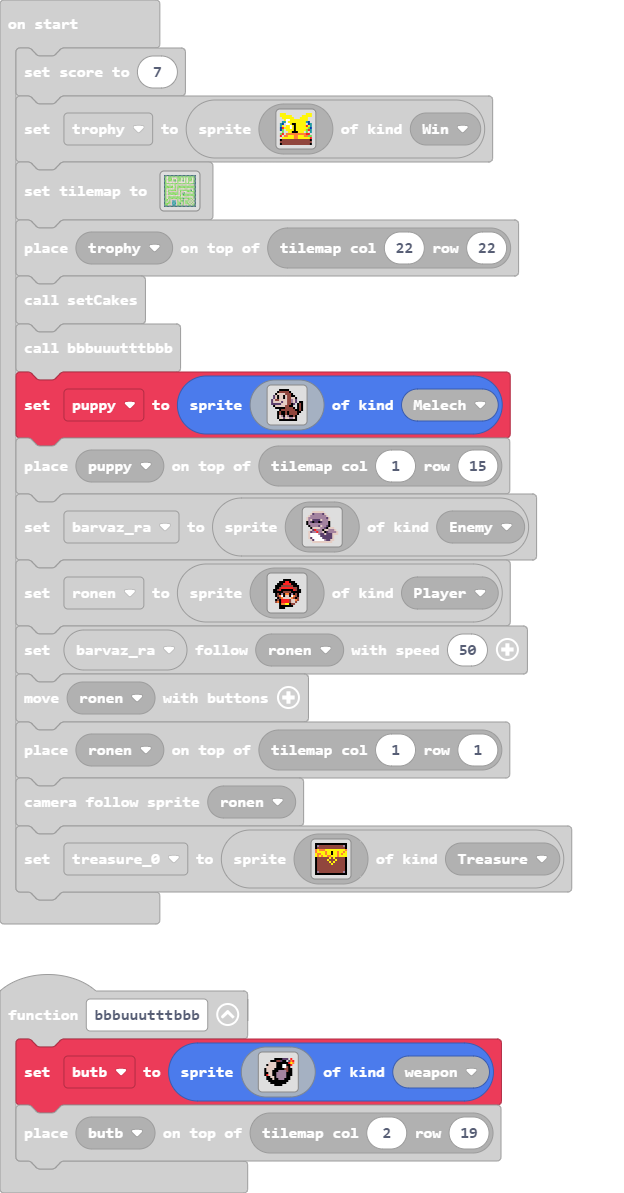
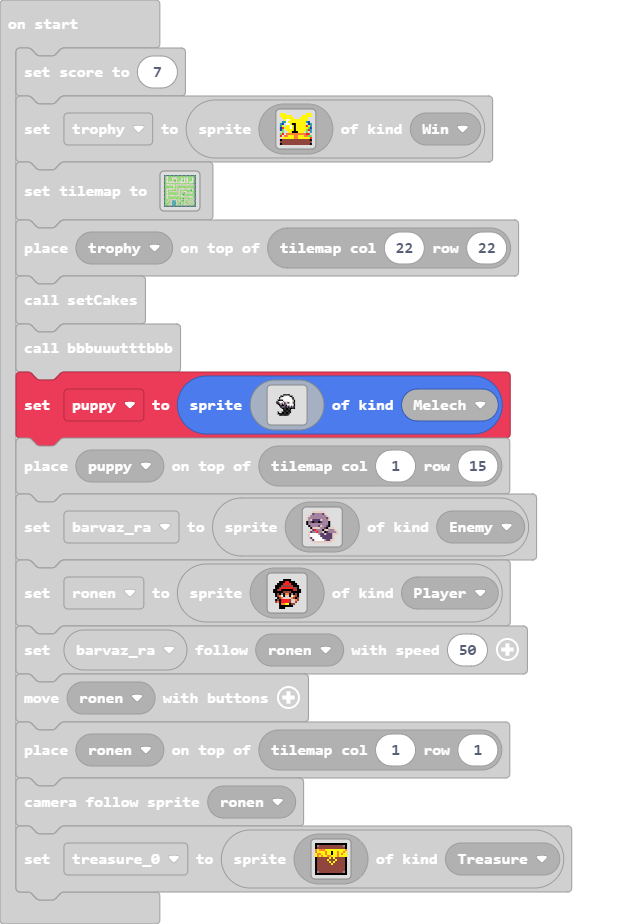
Update main.blocks, main.ts

diff --git a/main.ts b/main.ts
@@ -154,22 +154,30 @@ tiles.placeOnTile(trophy, tiles.getTileLocation(22, 22))
 setCakes()
 bbbuuutttbbb()
 let puppy = sprites.create(img`
-    . . . . f f f f f . . . . . . . 
-    . . . f e e e e e f . . . . . . 
-    . . f d d d d e e e f . . . . . 
-    . c d f d d f d e e f f . . . . 
-    . c d f d d f d e e d d f . . . 
-    c d e e d d d d e e b d c . . . 
-    c d d d d c d d e e b d c . f f 
-    c c c c c d d d e e f c . f e f 
-    . f d d d d d e e f f . . f e f 
-    . . f f f f f e e e e f . f e f 
-    . . . . f e e e e e e e f f e f 
-    . . . f e f f e f e e e e f f . 
-    . . . f e f f e f e e e e f . . 
-    . . . f d b f d b f f e f . . . 
-    . . . f d d c d d b b d f . . . 
-    . . . . f f f f f f f f f . . . 
+    ........................
+    ........................
+    ........................
+    ........................
+    .........fffff..........
+    .......ffb1111ff........
+    ......fb1111111bf.......
+    ......f111111111f.......
+    .....ffff1111111df......
+    ....fb111c1dd111df......
+    ....ffb1b1fdcf11bf......
+    .....ffbfbfb11111f......
+    ......ffffcfdb1b1f......
+    .......fcccfcfbfbf......
+    ........ffffffffff......
+    .........ffffff.........
+    .........ffffff.........
+    .....f..fffffff.........
+    .....fffffffff..........
+    ......fffffff...........
+    ........................
+    ........................
+    ........................
+    ........................
     `, SpriteKind.Melech)
 tiles.placeOnTile(puppy, tiles.getTileLocation(1, 15))
 let barvaz_ra = sprites.create(img`
